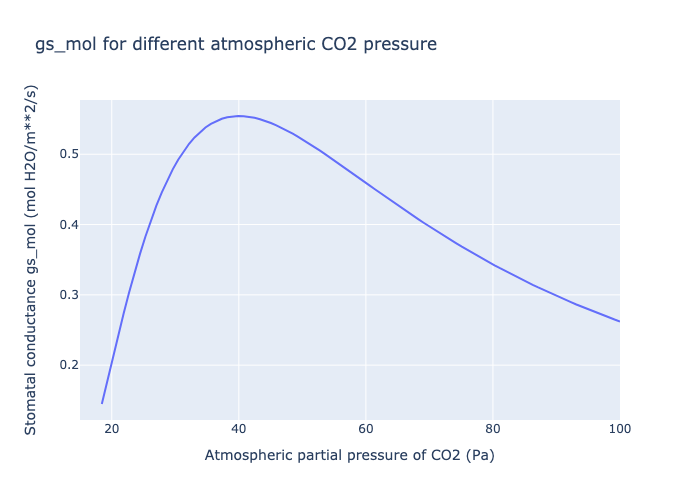
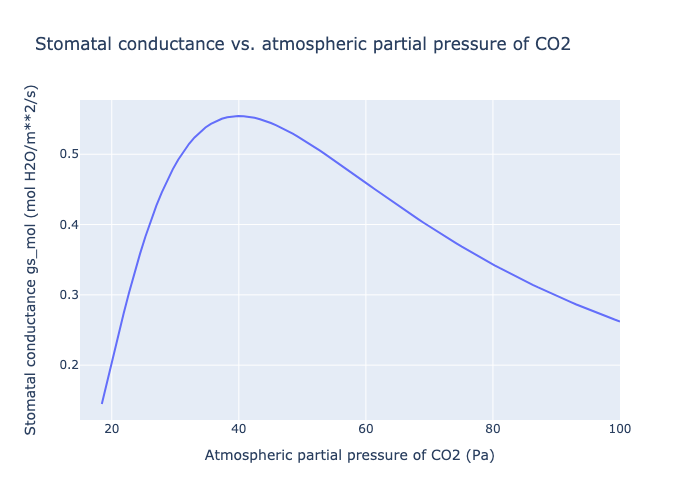
Update plot title

Changed region(s): [[0.03, 0.06, 0.81, 0.12]]

diff --git a/python_ci_func/jax_photosynthesis.py b/python_ci_func/jax_photosynthesis.py
@@ -209,7 +209,7 @@ if __name__ == "__main__":
     fig = go.Figure()
     fig.add_trace(go.Scatter(x=cair_range, y=y / 1e6))
     fig.update_layout(
-        title="gs_mol for different atmospheric CO2 pressure",
+        title="Stomatal conductance vs. atmospheric partial pressure of CO2",
         xaxis_title="Atmospheric partial pressure of CO2 (Pa)",
         yaxis_title="Stomatal conductance gs_mol (mol H2O/m**2/s)",
     )
